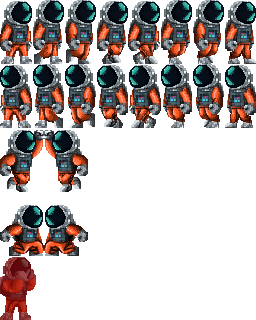
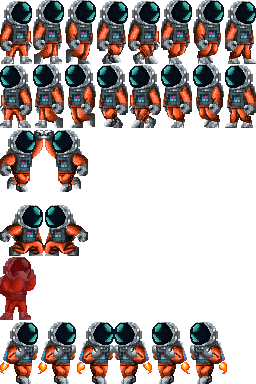
Added jetpack animation

diff --git a/SuperNova/src/classes/Player.cpp b/SuperNova/src/classes/Player.cpp
@@ -4,6 +4,7 @@
 
 float playerJumpSpeed, playerSpeed, playerSize, animationPerFrame = 1.0f / 8.0f, jumpHeight = 0;
 int frameCount = 0, offset = 0;
+int frameCountJetPack = 0, offsetJetPack = 0;
 const float gravity = 1.f;
 sf::Vector2f velocity(0, 0);
 bool grounded = true, jumping = false, ceilingBump = false, crouchPlayed = false;
@@ -45,18 +46,29 @@ void Player::init() {
 }
 
 void Player::animate() {
-	if (stoppedRight && !moving)
-		playerSprite.setTextureRect(sf::IntRect(0, 0, 32, 64));
-	else if (stoppedLeft && !moving)
-		playerSprite.setTextureRect(sf::IntRect(0, 32 * 2, 32, 64));
+	if (stoppedRight && !moving) {
+		if (jetPack && !grounded) playerSprite.setTextureRect(sf::IntRect(0, 322, 38, 64));
+		else playerSprite.setTextureRect(sf::IntRect(0, 0, 32, 64));
+	}
+	else if (stoppedLeft && !moving) {
+		if (jetPack && !grounded) playerSprite.setTextureRect(sf::IntRect(116, 322, 38, 64));
+		else playerSprite.setTextureRect(sf::IntRect(0, 32 * 2, 32, 64));
+	}
 
 	frameCount++;
+	frameCountJetPack++;
 	if ((int)(frameCount * animationPerFrame) > offset) offset++;
+	if ((int)(frameCountJetPack * animationPerFrame) > offsetJetPack) offsetJetPack++;
 
 	//There are 8 frames for walking now, this allows each frame to cycle and then reset when the last frame is projected onto the screen
 	if (offset == 8) {
 		frameCount = 0;
 		offset = 0;
+	}
+
+	if (offsetJetPack == 3) {
+		frameCountJetPack = 0;
+		offsetJetPack = 0;
 	}
 }
 
@@ -86,6 +98,7 @@ void Player::checkMovement(LevelManager::Level currentLevel) {
 
 		velocity.x = playerSpeed;
 		//the sprite size in sprite sheet is 32x64. this tells textureRect to start at beginning and every time walkCount is added, then it goes to next frame
+		std::cout << grounded << std::endl;
 		playerSprite.setTextureRect(sf::IntRect(offset * 32, 0, 32, 64));
 	}
 	else if (checkLeft && sf::Keyboard::isKeyPressed(sf::Keyboard::A)) {
@@ -101,7 +114,6 @@ void Player::checkMovement(LevelManager::Level currentLevel) {
 	}
 	if (sf::Keyboard::isKeyPressed(sf::Keyboard::J)) {
 		jetPack = true;
-
 	}
 	if (sf::Keyboard::isKeyPressed(sf::Keyboard::K)) {
 		jetPack = false;
@@ -168,12 +180,20 @@ void Player::checkMovement(LevelManager::Level currentLevel) {
 			}
 		}
 	}
-	if (!grounded || jumping) {
+	if (!jetPack && (!grounded || jumping)) {
 		if (stoppedRight) {
 			playerSprite.setTextureRect(sf::IntRect(0, 128, 44, 64));
 		}
 		else if (stoppedLeft) {
 			playerSprite.setTextureRect(sf::IntRect(44, 128, 44 * 2, 64));
+		}
+	}
+	else if (jetPack && !grounded) {
+		if (stoppedRight) {
+			playerSprite.setTextureRect(sf::IntRect(offsetJetPack * 38, 322, 38, 64));
+		}
+		else if (stoppedLeft) {
+			playerSprite.setTextureRect(sf::IntRect((offsetJetPack * 38)+114, 322, 38, 64));
 		}
 	}
 
